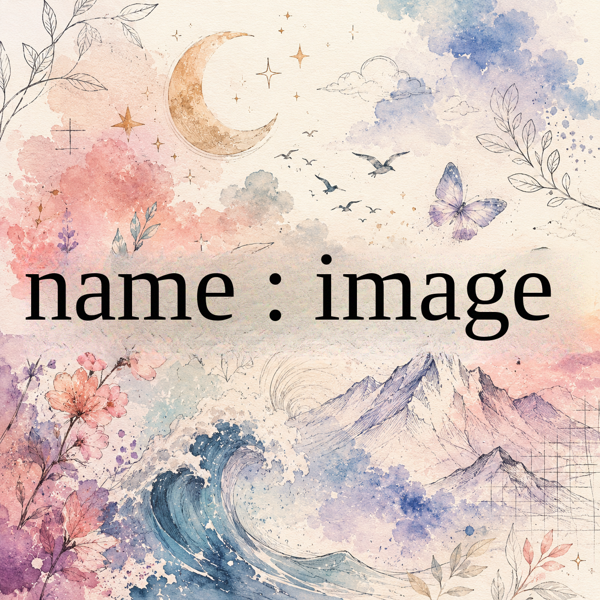
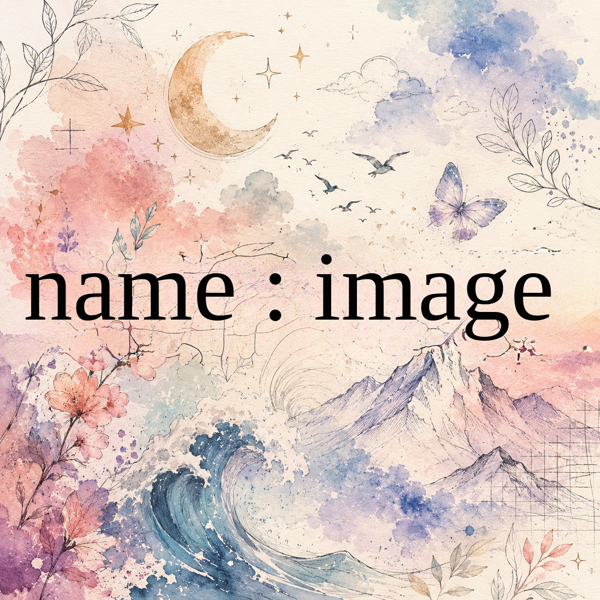
Default to MAT inpainting for sharper backgrounds; honour model arg
LaMa blurs textured backgrounds (visible band behind erased text). Switch the
default inpaint model to MAT, which reconstructs watercolor/detailed textures
far more cleanly.

Also fixes a latent bug: IOPaintClient accepted a `model` argument but never
sent it, so every run used whatever model the server started with. Added
best-effort runtime model switching (ensure_model) so the argument is honoured,
and set MAT as the default in run.sh, advanced_replace.py, and fix_one.py.
Regenerated the before/after example with MAT.

Changed region(s): [[0.03, 0.42, 0.78, 0.6], [0.81, 0.51, 0.99, 0.6], [0.87, 0.39, 0.93, 0.45]]

diff --git a/app/inpaint.py b/app/inpaint.py
@@ -33,6 +33,50 @@ class IOPaintClient:
         except Exception:
             return "unreachable"
 
+    # ── Model query / switch ─────────────────────────────────
+    def current_model(self) -> str:
+        """Return the model name the server currently serves ('' on error)."""
+        try:
+            r = self._session.get(f"{self.base_url}/api/v1/model", timeout=5)
+            if r.status_code == 200:
+                return r.json().get("name", "") or ""
+        except Exception:
+            pass
+        return ""
+
+    def ensure_model(self, model: str) -> str:
+        """
+        Best-effort: switch the IOPaint server to `model` if it isn't already
+        serving it. Runtime switching only works for models the server can load
+        (already cached or downloadable). On failure we keep the current model
+        so inpainting still proceeds. Returns the model actually in use.
+
+        NOTE: the authoritative way to choose a model is at server startup
+        (run.sh IOPAINT_MODEL); this just honours the per-call `model` argument
+        when the server supports switching.
+        """
+        if not model:
+            return self.current_model()
+        cur = self.current_model()
+        if cur == model:
+            return cur
+        try:
+            r = self._session.post(
+                f"{self.base_url}/api/v1/model",
+                json={"name": model}, timeout=300,
+            )
+            if r.status_code == 200:
+                log.info("Switched IOPaint model %s → %s", cur or "?", model)
+                return model
+            log.warning(
+                "Could not switch IOPaint to '%s' (HTTP %d) — using '%s'. "
+                "Start the server with IOPAINT_MODEL=%s for best results.",
+                model, r.status_code, cur, model,
+            )
+        except Exception as e:
+            log.warning("Model switch to '%s' failed (%s) — using '%s'.", model, e, cur)
+        return cur
+
     # ── Main inpaint ─────────────────────────────────────────
     def inpaint(
         self,
@@ -53,6 +97,9 @@ class IOPaintClient:
         Call IOPaint and save the result to output_path.
         Retries once if the server is temporarily busy.
         """
+        # Honour the requested model (best-effort runtime switch).
+        self.ensure_model(model)
+
         # Load & encode image + mask
         img_b64  = self._to_b64(image_path)
         mask_b64 = self._mask_to_b64(mask_path, image_path)

diff --git a/advanced_replace.py b/advanced_replace.py
@@ -70,9 +70,10 @@ def main():
     )
     parser.add_argument(
         "--model",
-        default="lama",
+        default="mat",
         choices=["lama", "mat", "zits", "sd-inpainting"],
-        help="IOPaint model to use (default: lama)",
+        help="IOPaint model to use (default: mat — sharper on textured "
+             "backgrounds; 'lama' is faster but blurrier)",
     )
     parser.add_argument(
         "--prompt",

diff --git a/app/fix_one.py b/app/fix_one.py
@@ -19,7 +19,7 @@ from text_overlay import TextOverlay
 from blender import NaturalBlender
 
 
-def run(src_path, out_path, text_bbox, mask_bbox, new_text, model="lama",
+def run(src_path, out_path, text_bbox, mask_bbox, new_text, model="mat",
         font_override=None, bold_override=None):
     src_path, out_path = Path(src_path), Path(out_path)
     work = Path("/tmp/fix_one"); work.mkdir(parents=True, exist_ok=True)
@@ -105,7 +105,7 @@ if __name__ == "__main__":
     ap.add_argument("--bbox", help="text bbox 'x0,y0,x1,y1' (default: auto-detect dark band)")
     ap.add_argument("--font", help="force a font family, e.g. 'Liberation Serif'")
     ap.add_argument("--bold", action="store_true", help="force bold")
-    ap.add_argument("--model", default="lama", help="inpaint model (lama/mat/zits)")
+    ap.add_argument("--model", default="mat", help="inpaint model (mat/lama/zits); default mat")
     a = ap.parse_args()
 
     src = Path(a.src)

diff --git a/README.md b/README.md
@@ -42,7 +42,7 @@ python app/fix_one.py before.png "name : image" --font "Liberation Serif"
  │  Detect  │ → │  Mask + Erase │ → │  Estimate  │ → │  Render new   │ → │  Blend   │
  │  text    │   │  (inpaint bg) │   │  font/size │   │  text in place│   │  + save  │
  └──────────┘   └───────────────┘   └────────────┘   └───────────────┘   └──────────┘
-   MSER +          IOPaint LaMa        OpenCV +          Pillow, fit to       feather +
+   solid-ink +     IOPaint MAT         OpenCV +          Pillow, fit to       feather +
    Groq OCR        / MAT / ZITS        Groq vision       original bbox        brightness
 ```
 
@@ -83,8 +83,8 @@ later run `./setup/fix_rtx50.sh`.
 
 | Model | Size | Where it must live | How it gets there | Needed for |
 | ----- | ---- | ------------------ | ----------------- | ---------- |
-| **LaMa** | ~200 MB | `models/iopaint_cache/` | auto-downloaded by IOPaint on first run | **Default.** Fast, seamless text removal |
-| **MAT** | ~700 MB | `models/iopaint_cache/` | auto-downloaded on first use | Complex / busy backgrounds |
+| **MAT** | ~700 MB | `models/iopaint_cache/` | auto-downloaded by IOPaint on first run | **Default.** Sharper reconstruction on textured / busy backgrounds |
+| **LaMa** | ~200 MB | `models/iopaint_cache/` | auto-downloaded on first use | Faster, but blurrier on detailed textures |
 | **ZITS** | ~400 MB | `models/iopaint_cache/` | auto-downloaded on first use | Thin strokes, fine detail |
 | **SD 1.5 inpainting** | ~4 GB | `models/checkpoints/sd-v1-5-inpainting.ckpt` | `./setup/download_models.sh` | Optional — full background *regeneration* via ComfyUI / SD engine |
 
@@ -120,8 +120,8 @@ Then open **http://localhost:5000**.
 Pick the IOPaint model at launch:
 
 ```bash
-IOPAINT_MODEL=lama          ./run.sh   # default — fast & seamless
-IOPAINT_MODEL=mat           ./run.sh   # complex backgrounds
+IOPAINT_MODEL=mat           ./run.sh   # default — sharper on textured backgrounds
+IOPAINT_MODEL=lama          ./run.sh   # faster, but blurrier on detail
 IOPAINT_MODEL=zits          ./run.sh   # thin strokes / fine details
 IOPAINT_MODEL=sd-inpainting ./run.sh   # full SD regeneration (needs the 4 GB ckpt)
 ```